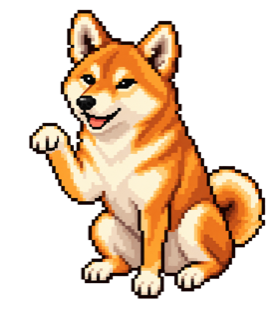
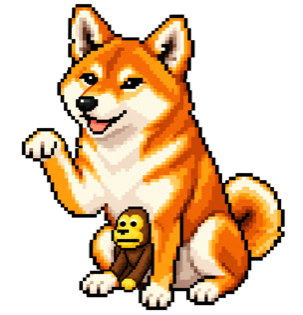
replace font and update ichiro's sprites

diff --git a/app/layout.tsx b/app/layout.tsx
@@ -1,7 +1,7 @@
 import './globals.css';
 import type { Metadata } from 'next';
 import dynamic from 'next/dynamic';
-import { Inter } from 'next/font/google';
+import { IBM_Plex_Mono, IBM_Plex_Sans } from 'next/font/google';
 import { Analytics } from '@vercel/analytics/react';
 import { ThemeProvider } from '@/components/theme-provider';
 import { Navbar } from '@/components/navbar';
@@ -22,7 +22,19 @@ const IchiroGuide = dynamic(
   { ssr: false },
 );
 
-const inter = Inter({ subsets: ['latin'], display: 'swap' });
+const plexSans = IBM_Plex_Sans({
+  subsets: ['latin'],
+  weight: ['400', '500', '600', '700'],
+  variable: '--font-ibm-plex-sans',
+  display: 'swap',
+});
+
+const plexMono = IBM_Plex_Mono({
+  subsets: ['latin'],
+  weight: ['400', '500'],
+  variable: '--font-ibm-plex-mono',
+  display: 'swap',
+});
 
 const jsonLd = {
   '@context': 'https://schema.org',
@@ -124,7 +136,7 @@ export default function RootLayout({
           />
         ))}
       </head>
-      <body className={inter.className}>
+      <body className={`${plexSans.variable} ${plexMono.variable} font-sans`}>
         <script type="application/ld+json" dangerouslySetInnerHTML={{ __html: JSON.stringify(jsonLd) }} />
         <ThemeProvider attribute="class" defaultTheme="dark" enableSystem={false}>
           <AmbientBackground />

diff --git a/components/hero-section.tsx b/components/hero-section.tsx
@@ -100,7 +100,7 @@ export function HeroSection() {
           {pt ? 'Engenheiro de Software Sênior · Porto Alegre, Brasil' : 'Senior Software Engineer · Porto Alegre, Brazil'}
         </motion.div>
 
-        <h1 aria-label="João Coelho." className="mx-auto max-w-6xl text-center text-[clamp(4.25rem,12vw,10rem)] font-bold leading-[0.82] tracking-[-0.065em] text-white">
+        <h1 aria-label="João Coelho." className="mx-auto max-w-6xl text-center text-[clamp(4.25rem,12vw,10rem)] font-bold leading-[0.82] tracking-[-0.045em] text-white">
           <FocusInWord word="João" delay={0.12} reducedMotion={Boolean(prefersReducedMotion)} />
           <FocusInWord word="Coelho" delay={0.32} reducedMotion={Boolean(prefersReducedMotion)}>
             <motion.span

diff --git a/components/projects-section.tsx b/components/projects-section.tsx
@@ -30,7 +30,7 @@ export function ProjectsSection() {
                 {pt ? 'Projetos pessoais' : 'Side projects'}
               </div>
             </div>
-            <h2 className="max-w-4xl break-words text-3xl font-bold leading-[1.02] tracking-[-0.04em] text-white sm:text-4xl md:text-6xl lg:text-7xl">
+            <h2 className="max-w-4xl break-words text-3xl font-bold leading-[1.02] tracking-[-0.025em] text-white sm:text-4xl md:text-6xl lg:text-7xl">
               {pt ? 'Coisas que construí do zero' : <>Things I&apos;ve built from scratch</>}
               <span className="text-violet-300">.</span>
             </h2>

diff --git a/components/blog-section.tsx b/components/blog-section.tsx
@@ -29,7 +29,7 @@ export function BlogSection({ posts }: { posts: PostSummary[] }) {
                 03 · Blog
               </div>
             </div>
-            <h2 className="max-w-4xl break-words text-3xl font-bold leading-[1.02] tracking-[-0.04em] text-white sm:text-4xl md:text-6xl lg:text-7xl">
+            <h2 className="max-w-4xl break-words text-3xl font-bold leading-[1.02] tracking-[-0.025em] text-white sm:text-4xl md:text-6xl lg:text-7xl">
               {pt ? 'Sobre o que tenho escrito' : <>Things I&apos;ve been writing about</>}
               <span className="text-amber-300">.</span>
             </h2>

diff --git a/components/experience-section.tsx b/components/experience-section.tsx
@@ -40,7 +40,7 @@ export function ExperienceSection() {
               </div>
               <span className="font-mono text-[10px] uppercase tracking-[0.2em] text-zinc-700">02</span>
             </div>
-            <h2 className="text-4xl font-bold leading-[0.98] tracking-[-0.04em] text-white md:text-6xl">
+            <h2 className="text-4xl font-bold leading-[0.98] tracking-[-0.025em] text-white md:text-6xl">
               {pt ? 'Onde trabalhei' : <>Where I&apos;ve worked</>}<span className="text-emerald-300">.</span>
             </h2>
             <p className="mt-6 max-w-sm text-base leading-7 text-zinc-400">

diff --git a/components/about-section.tsx b/components/about-section.tsx
@@ -81,7 +81,7 @@ export function AboutSection() {
 
           <div className="grid gap-16 lg:grid-cols-[minmax(0,1.2fr)_minmax(320px,0.8fr)] lg:gap-24">
             <div className="max-w-3xl">
-              <h2 className="mb-10 text-4xl font-bold leading-[0.98] tracking-[-0.04em] text-white md:text-6xl lg:text-7xl">
+              <h2 className="mb-10 text-4xl font-bold leading-[0.98] tracking-[-0.025em] text-white md:text-6xl lg:text-7xl">
                 {pt ? 'Movido pela curiosidade' : 'Built around curiosity'}<span className="text-sky-300">.</span>
               </h2>
 

diff --git a/tailwind.config.ts b/tailwind.config.ts
@@ -1,4 +1,5 @@
 import type { Config } from 'tailwindcss';
+import defaultTheme from 'tailwindcss/defaultTheme';
 
 const config: Config = {
   darkMode: ['class'],
@@ -9,6 +10,10 @@ const config: Config = {
   ],
   theme: {
     extend: {
+      fontFamily: {
+        sans: ['var(--font-ibm-plex-sans)', ...defaultTheme.fontFamily.sans],
+        mono: ['var(--font-ibm-plex-mono)', ...defaultTheme.fontFamily.mono],
+      },
       backgroundImage: {
         'gradient-radial': 'radial-gradient(var(--tw-gradient-stops))',
         'gradient-conic':

diff --git a/components/contact-section.tsx b/components/contact-section.tsx
@@ -54,7 +54,7 @@ export function ContactSection() {
               </div>
               <h2
                 ref={headingRef}
-                className="group/sheen max-w-3xl text-3xl font-bold leading-[1.05] tracking-[-0.04em] text-white sm:text-4xl md:text-5xl lg:text-6xl"
+                className="group/sheen max-w-3xl text-3xl font-bold leading-[1.05] tracking-[-0.025em] text-white sm:text-4xl md:text-5xl lg:text-6xl"
               >
                 {pt ? (
                   <>
